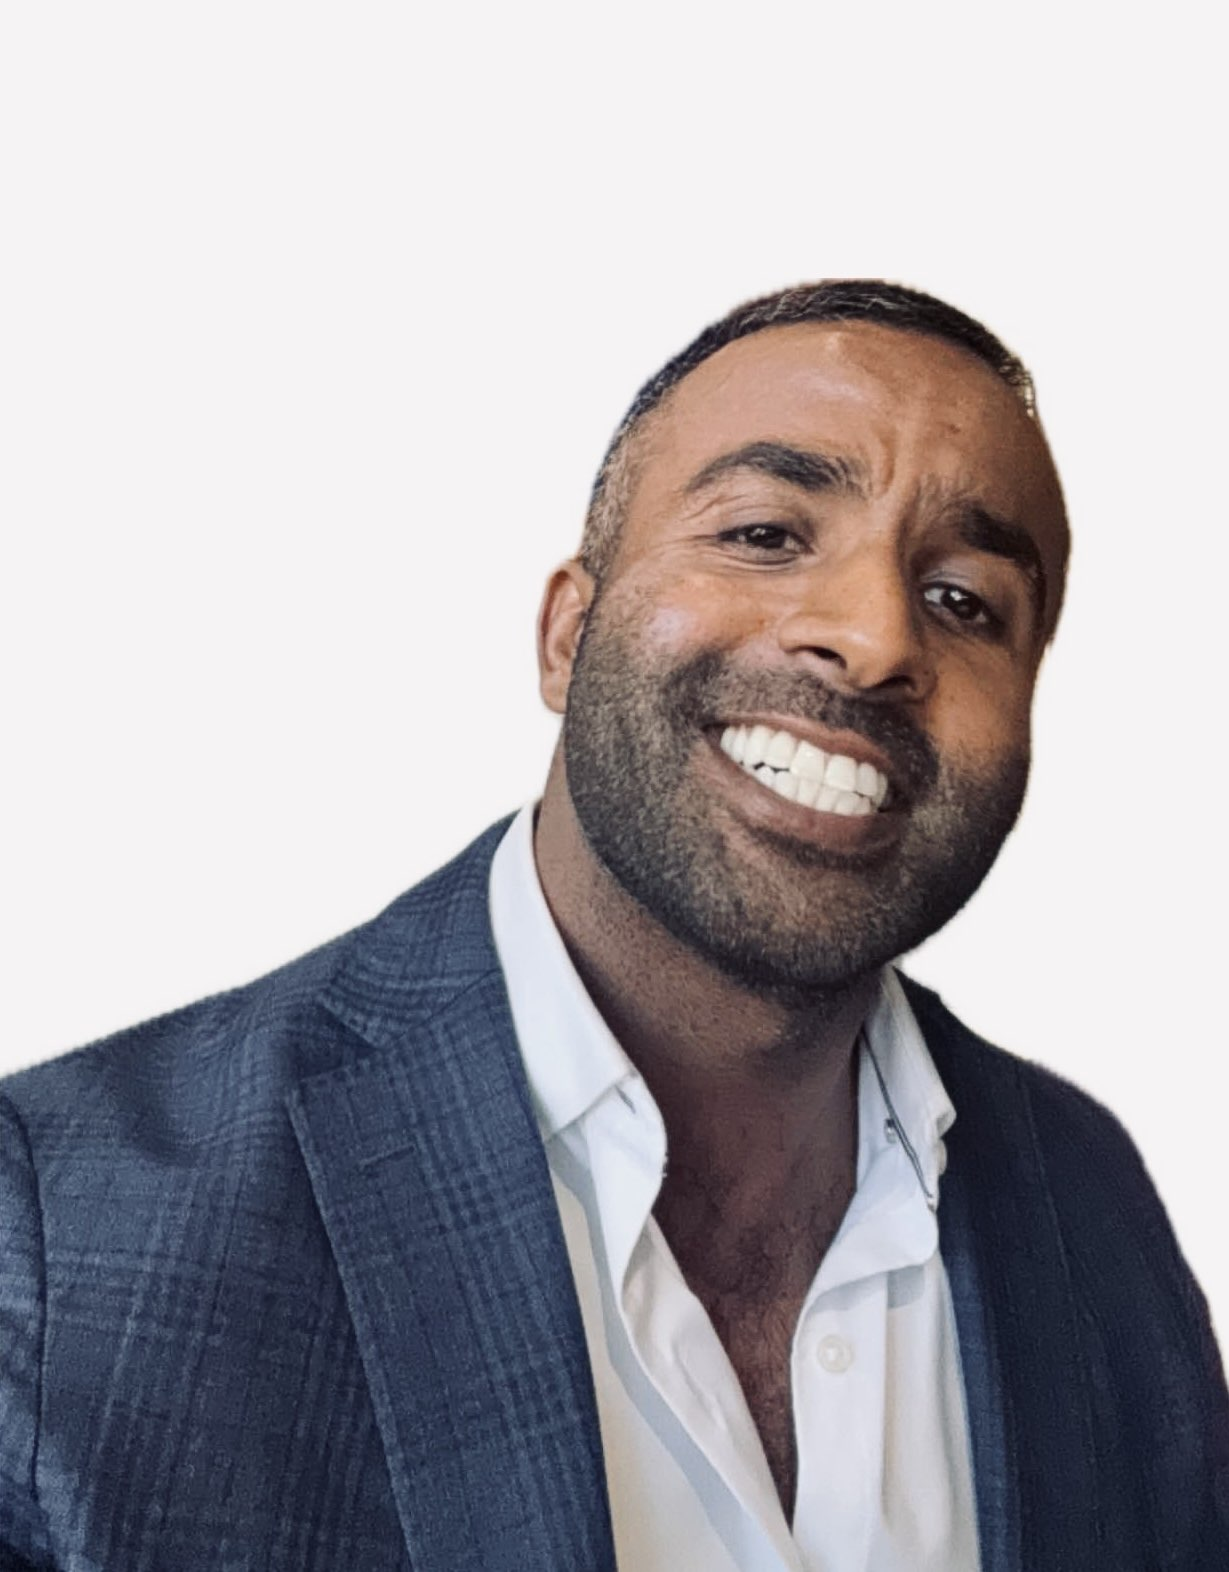
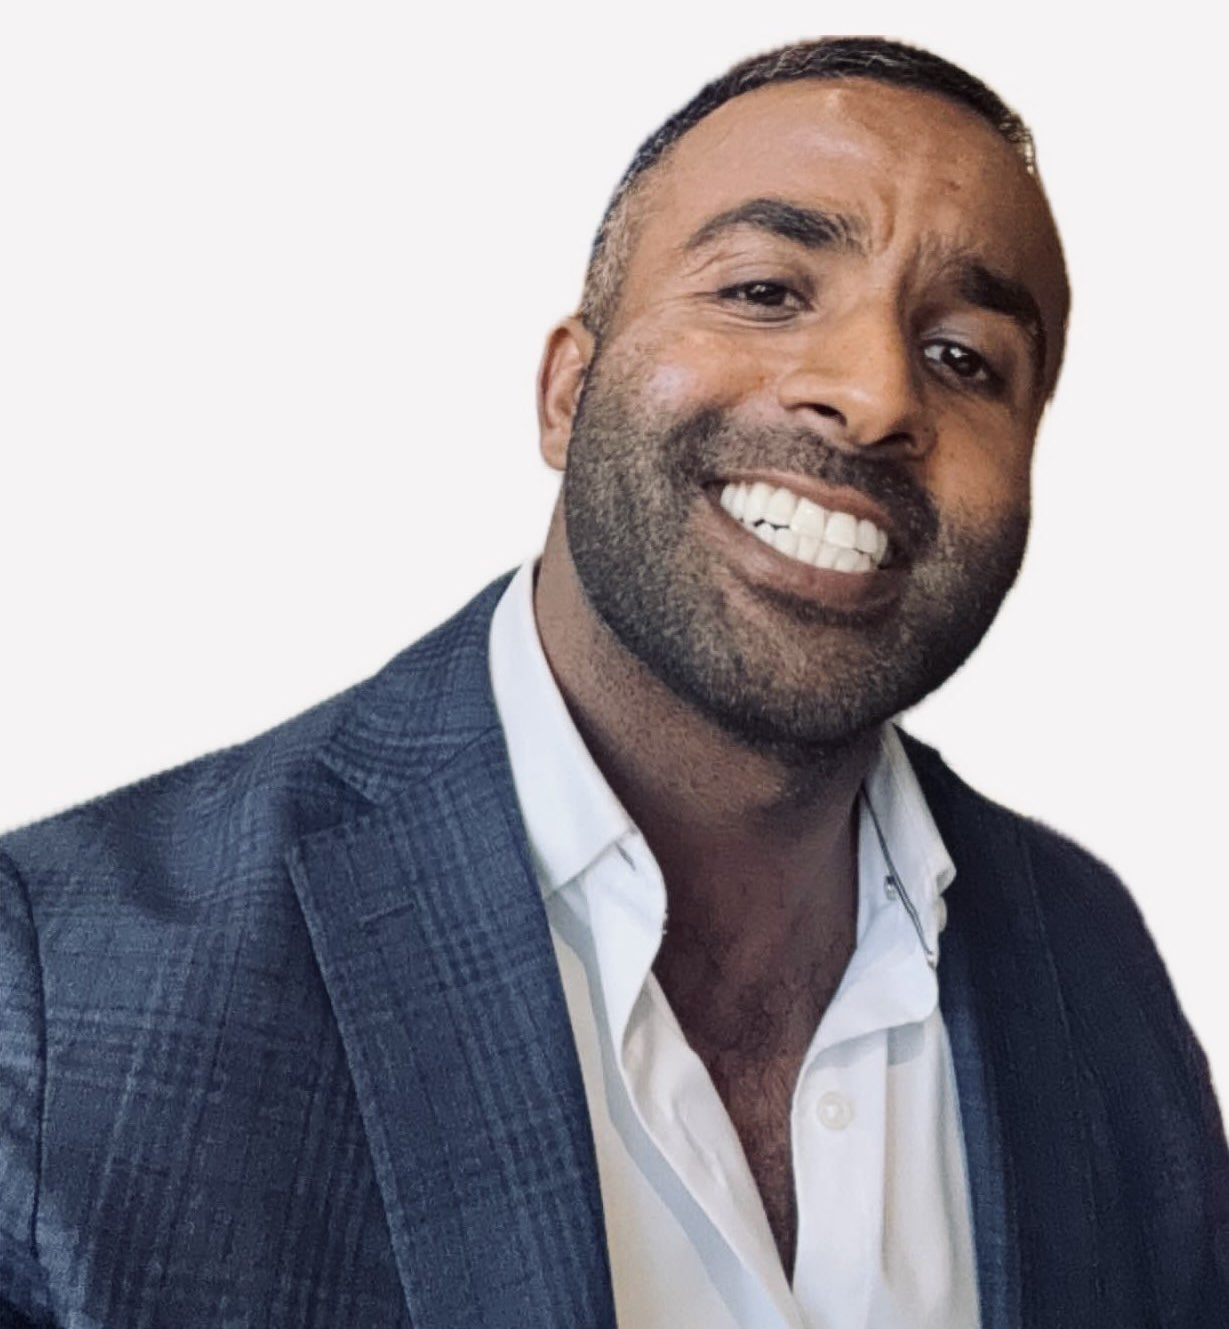
Fix team member image container styling and update Sama's image

Changed region(s): [[0.0, 0.0, 1.0, 0.9872], [0.3092, 0.8947, 0.3401, 0.9564], [0.371, 0.8021, 0.402, 0.833]]

diff --git a/green-tech-vault-impact/client/src/pages/AboutUsPage.js b/green-tech-vault-impact/client/src/pages/AboutUsPage.js
@@ -376,10 +376,8 @@ const AboutUsPage = () => {
                             width: '100%',
                             height: '100%',
                             objectFit: 'cover',
-                            objectPosition: member.name === "Sama Mushtaq" ? 'center 0%' : 'center center', // Move Sama's image to top to eliminate white space and align bottom boundary
-                            display: 'block',
-                            transform: member.name === "Sama Mushtaq" ? 'scale(1.15)' : 'none', // Increased zoom for Sama to eliminate white space and match bottom boundary
-                            transformOrigin: 'center center'
+                            objectPosition: 'center center',
+                            display: 'block'
                           }}
                           onError={(e) => {
                             // Fallback to placeholder if image fails to load
